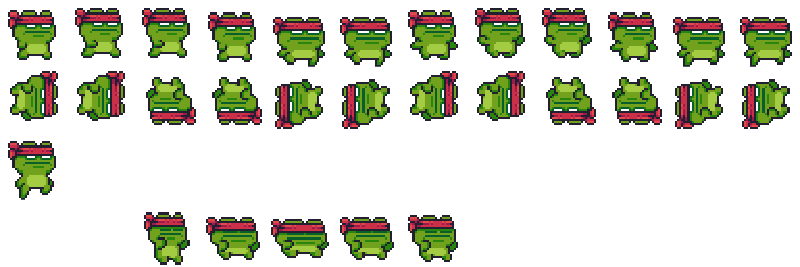
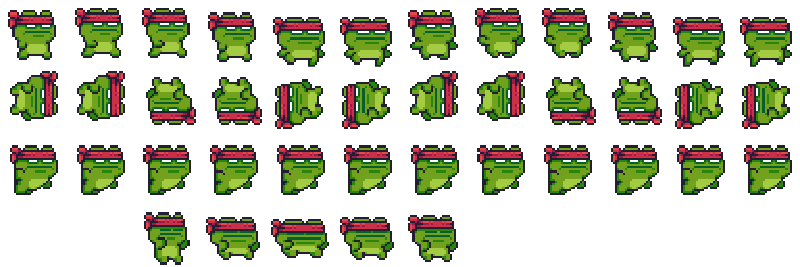
add firing sprite

Changed region(s): [[0.0, 0.5094, 1.0, 0.7491]]

diff --git a/js/game.js b/js/game.js
@@ -37,7 +37,7 @@ sawSprite.src = "./assets/images/saw.png";
 
 // BULLET
 const bulletImg = new Image();
-bulletImg.src = "./assets/images/bullet.png";
+bulletImg.src = "./assets/images/block.png";
 
 ////// SOUNDS ///////
 const gameSound = new Audio();
@@ -107,6 +107,7 @@ class Player {
       this.frameY = 0;
       this.spritePace = 3;
       this.dying = false;
+      this.firing = false;
       this.game = game;
     }
   
@@ -128,6 +129,8 @@ class Player {
       
       if(this.dying) {
         this.frameY = 3;
+    } else if(this.firing) {
+        this.frameY = 2;
       } else if (!this.grounded){
         this.frameY = 1;
       } else if (this.grounded){
@@ -152,8 +155,9 @@ class Player {
   
     fire() { 
         const newBullet = new Bullet(this.x, this.y, 30, 30, bulletImg, 5, this.game);
-        if(this.game.bulletsArray.length < 5) {
+        if(this.game.bulletsArray.length < 3) {
             this.game.bulletsArray.unshift(newBullet);
+                return true;
         }
         
     }
@@ -173,7 +177,8 @@ class Enemy {
       this.spriteNumber = spriteNumber;
       this.spritePace = spritePace;
       this.speedMultiplier = speedMultiplier;
-      this.game = game; 
+      this.game = game;
+      this.kind = kind;
   
     }
     update() {
@@ -210,7 +215,6 @@ class Bullet {
     }
     
       draw() {
-
       ctx.drawImage(this.image, this.x, this.y, this.width, this.height);
       }
 }
@@ -329,7 +333,7 @@ class Game {
         }
         this.frog.update();
         this.frog.draw();
-        this.updateBullets()
+        this.updateBullets();
         // this.debug();
         this.drawScore();
         if(this.calculateCollisions()) {
@@ -340,7 +344,7 @@ class Game {
             chickenSound.currentTime = 0;
             setTimeout(() => {
                 this.gameOver()
-            }, 1000);
+            }, 700);
         } else {
             this.frog.dying = false;
         }
@@ -389,6 +393,13 @@ window.onload = () => {
             if (event.code === "KeyZ") {
                 console.log("z")
                 game.frog.fire();
+                game.frog.firing = true;
+            }
+        });
+
+        document.addEventListener("keyup", function (event) {
+            if (event.code === "KeyZ") {
+                game.frog.firing = false;
             }
         });
     }
